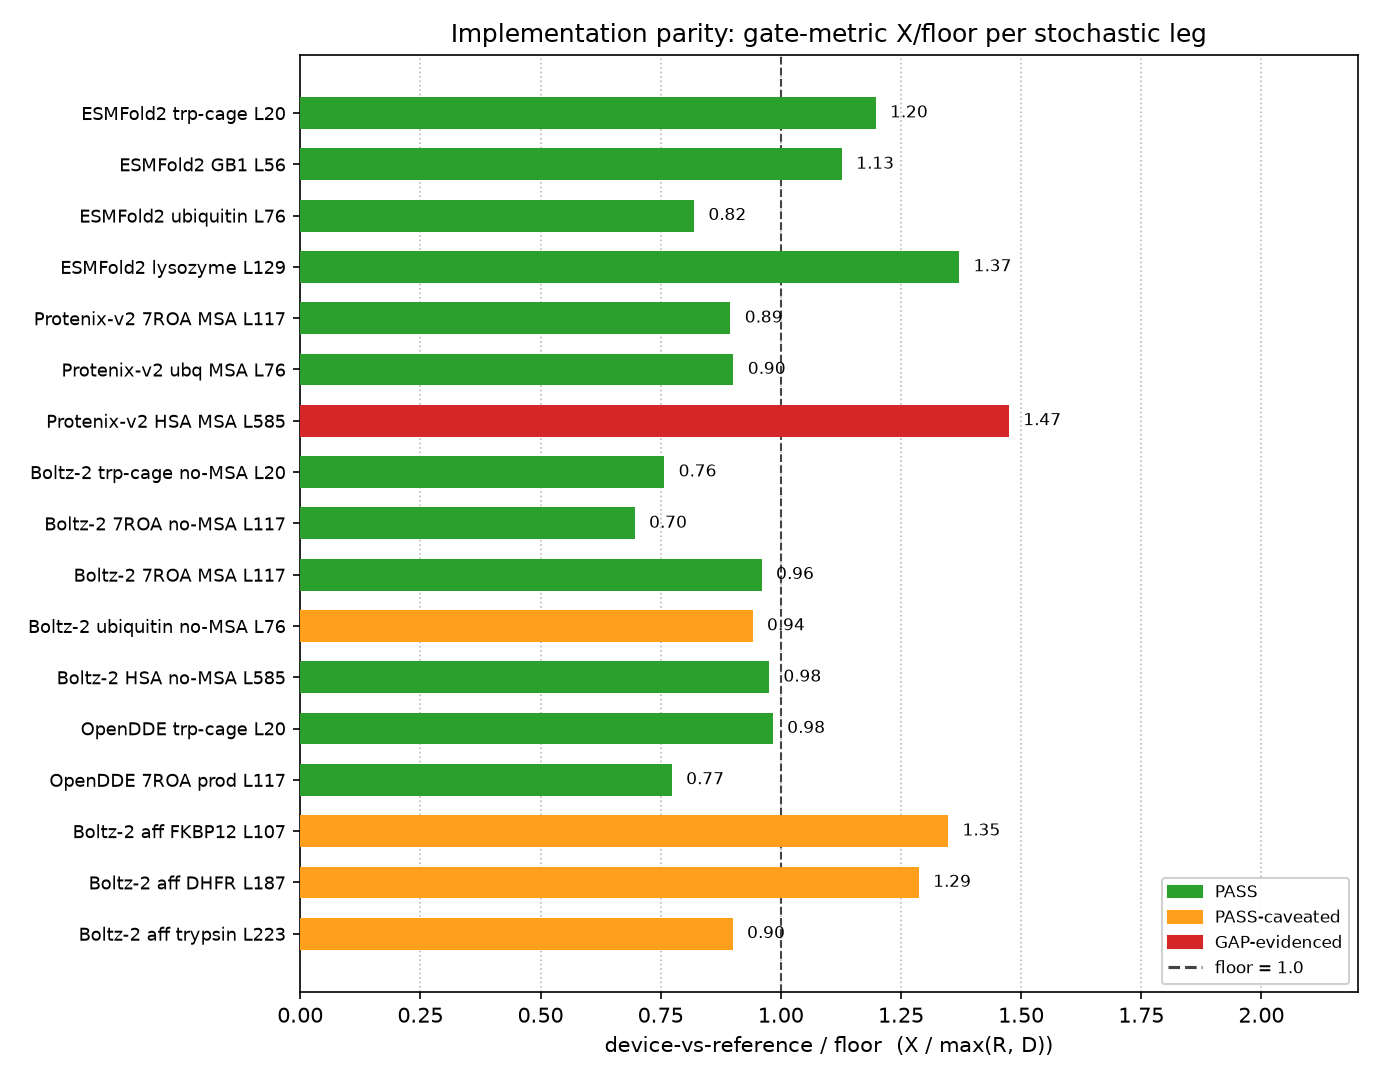
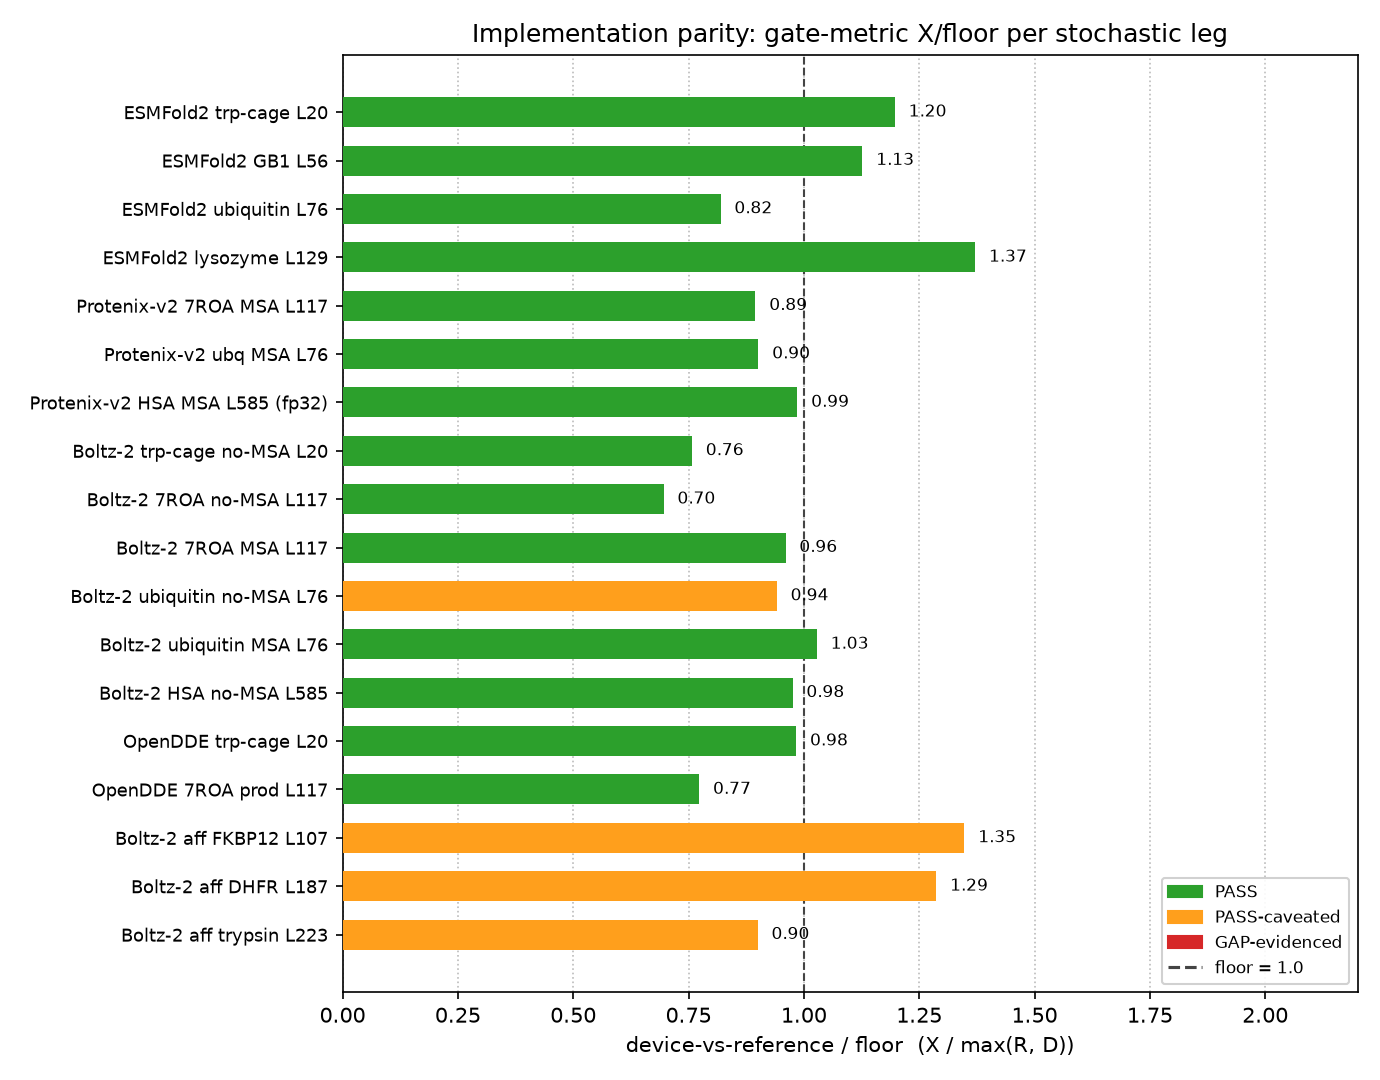
implementation-parity: regenerate chart with Protenix HSA fp32 PASS + ubiquitin MSA leg

diff --git a/scripts/plot_parity.py b/scripts/plot_parity.py
@@ -67,11 +67,12 @@ LEGS = [
     ("ESMFold2 lysozyme L129", "esmfold2", PASS, lambda: _esmfold2("lysozyme")),
     ("Protenix-v2 7ROA MSA L117", "protenix", PASS, _protenix_7roa),
     ("Protenix-v2 ubq MSA L76", "protenix", PASS, lambda: _struct("protenix-v2-ubiquitin.json", "ubq", "kabsch_rmsd")),
-    ("Protenix-v2 HSA MSA L585", "protenix", GAP, lambda: _struct("protenix-v2-hsa.json", "hsa", "rmsd")),
+    ("Protenix-v2 HSA MSA L585 (fp32)", "protenix", PASS, lambda: _struct("protenix-v2-hsa-fp32-device.json", "hsa", "kabsch_rmsd")),
     ("Boltz-2 trp-cage no-MSA L20", "boltz2", PASS, lambda: _struct("boltz2.json", "trpcage", "rmsd")),
     ("Boltz-2 7ROA no-MSA L117", "boltz2", PASS, lambda: _struct("boltz2-prot-nomsa-restore.json", "prot_no_msa", "rmsd")),
     ("Boltz-2 7ROA MSA L117", "boltz2", PASS, lambda: _struct("boltz2.json", "prot_msa", "rmsd")),
     ("Boltz-2 ubiquitin no-MSA L76", "boltz2", CAVEAT, lambda: _struct("boltz2-ubiquitin.json", "ubiquitin_no_msa", "kabsch_rmsd")),
+    ("Boltz-2 ubiquitin MSA L76", "boltz2", PASS, lambda: _struct("boltz2-ubiquitin-msa-paired-5x5.json", "ubiquitin_msa", "kabsch_rmsd")),
     ("Boltz-2 HSA no-MSA L585", "boltz2", PASS, lambda: _struct("boltz2-hsa.json", "hsa_no_msa", "rmsd")),
     ("OpenDDE trp-cage L20", "opendde", PASS, lambda: _struct("opendde.json", "trpcage", "rmsd")),
     ("OpenDDE 7ROA prod L117", "opendde", PASS, _opendde_prod),

diff --git a/docs/implementation-parity.md b/docs/implementation-parity.md
@@ -70,9 +70,7 @@ metric passes, a stricter local metric misses), red = GAP-evidenced (gate
 metric misses, proven a bf16-precision-floor artifact). Three Boltz-2
 structure legs (trp-cage, 7ROA no-MSA, 7ROA MSA) were hardened to 5+5 seeds
 after their result JSON was committed, so those bars reflect the earlier
-snapshot while the verdict table above holds the current 5+5 numbers. The
-Protenix-v2 HSA bar likewise still reflects the pre-fp32-fix bf16 result
-(GAP) pending a chart regeneration; the verdict table holds the current PASS.
+snapshot while the verdict table above holds the current 5+5 numbers.
 Deterministic and special-metric legs (ESMC, SaProt, BoltzGen, OpenDDE-abag)
 have no X/floor ratio and are not plotted; see the verdict table.
 